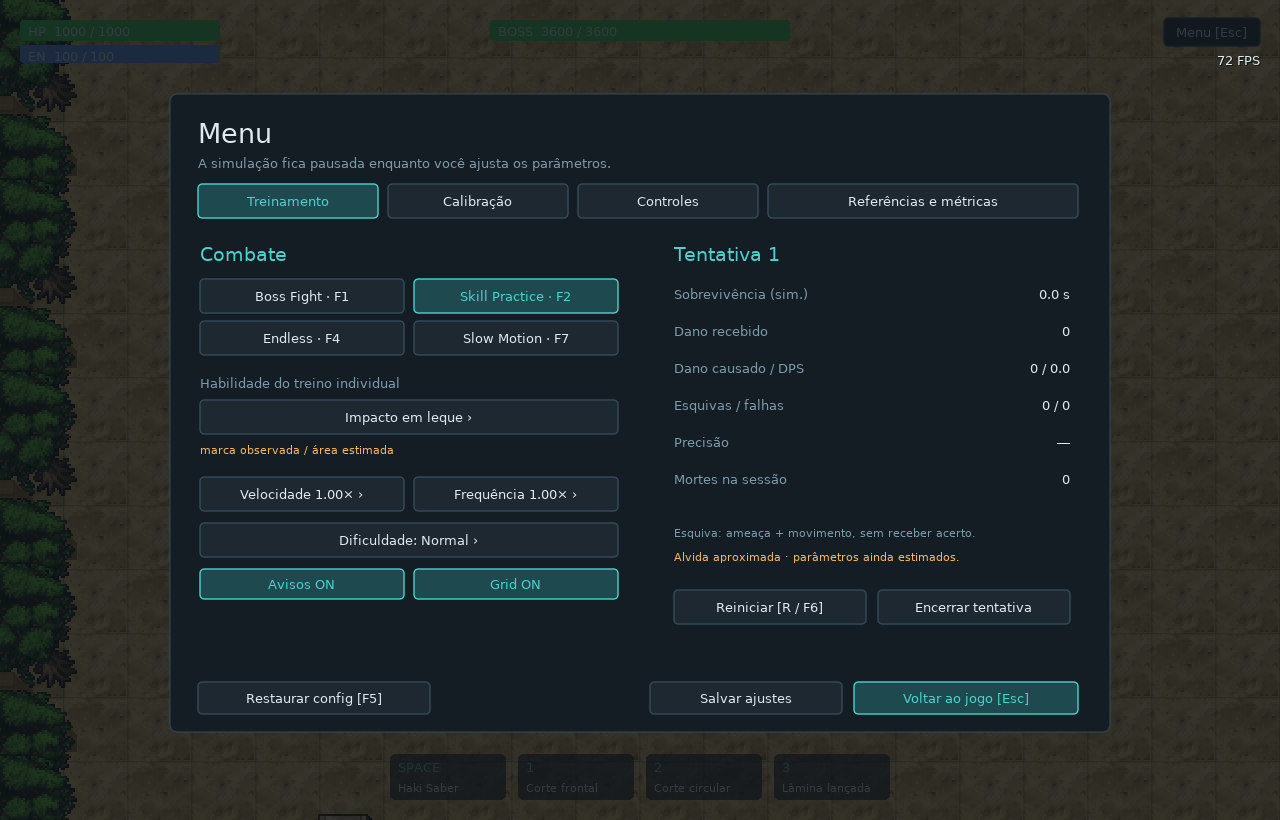
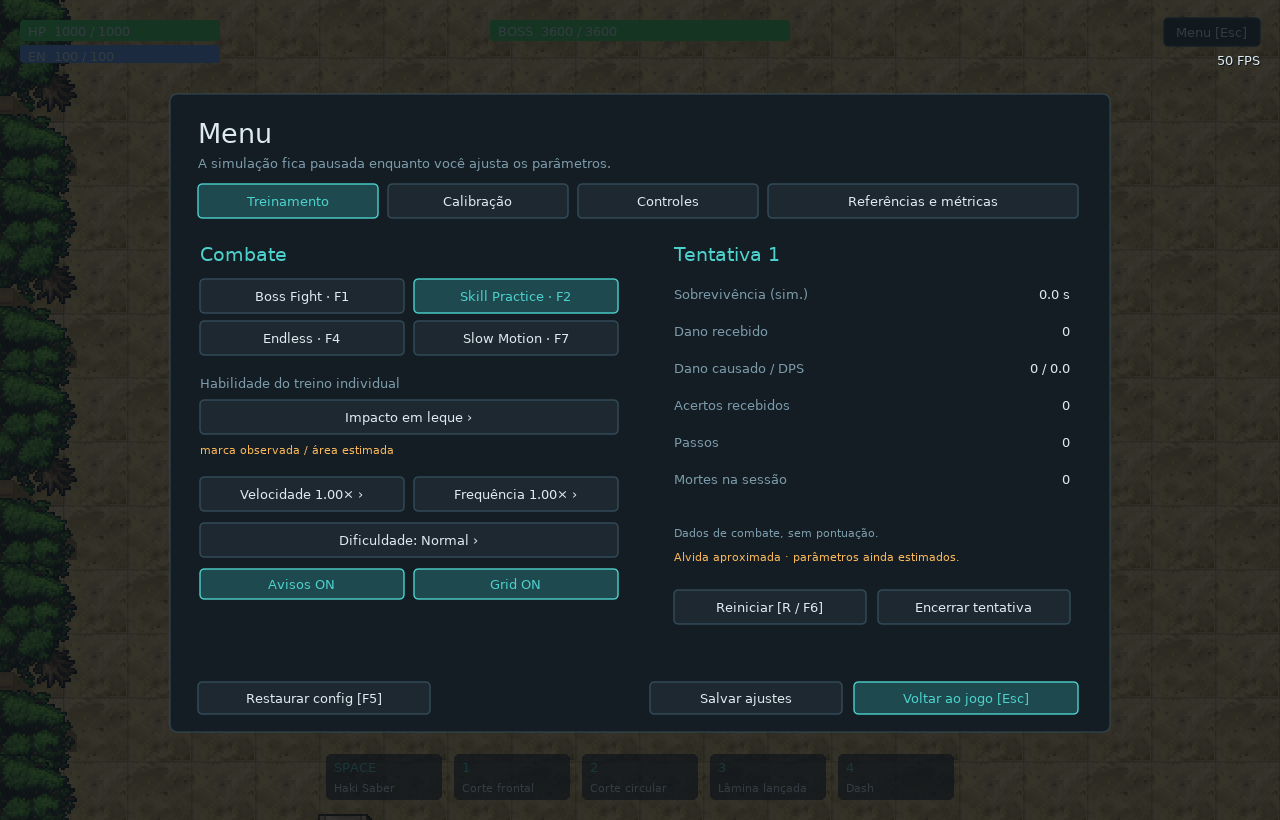
0.23

diff --git a/README.md b/README.md
@@ -1,16 +1,18 @@
 # GLA Boss Fight Simulator
 
-Versão 0.4 jogável, offline, em Lua + LÖVE 11.5. HP verde, energia azul, avisos de ataque em vermelho intenso, self-stun nas habilidades e sprites fornecidas para Shanks, boss, cenário e efeitos. Arena ocupa toda a janela, com HUD compacto, contador de FPS e menu no Esc. A movimentação mantém a calibração aproximada dos vídeos do Killer com move speed 300; essa velocidade não foi confirmada para Shanks.
+Versão 0.5 jogável, offline, em Lua + LÖVE 11.5. Shanks possui dash na tecla 4; círculos de direção e sistema de pontos foram removidos. HP verde, energia azul, avisos vermelhos, self-stun e sprites fornecidas continuam disponíveis. Arena ocupa toda a janela, com HUD compacto, FPS e menu no Esc. A movimentação mantém a calibração aproximada dos vídeos do Killer com move speed 300; essa velocidade não foi confirmada para Shanks. A meta é reproduzir o GLA com referências, mas o combate ainda contém aproximações documentadas.
 
 ![Interface do simulador](docs/preview.png)
 
-Durante a luta aparecem HP, energia, vida do boss, quatro atalhos de habilidades com cooldown e FPS. Modos, frequência, dificuldade, estatísticas, reinício e encerramento ficam na aba **Treinamento** do menu. **Esc abre e fecha o menu**, pausando a simulação enquanto estiver aberto. Tab não abre mais o menu. Calibração, remapeamento e ajuda continuam acessíveis pelas outras abas. O contador usa FPS reais de renderização, inclusive durante pausa e slow motion.
+Durante a luta aparecem HP, energia, vida do boss, cinco atalhos de habilidades com cooldown e FPS. Modos, frequência, dificuldade, dados de combate, reinício e encerramento ficam na aba **Treinamento** do menu. **Esc abre e fecha o menu**, pausando a simulação enquanto estiver aberto. Tab não abre mais o menu. Calibração, remapeamento e ajuda continuam acessíveis pelas outras abas. O contador usa FPS reais de renderização, inclusive durante pausa e slow motion. Círculos com setas de orientação foram retirados de Shanks e do boss; F3 ainda mostra hitboxes apenas para depuração.
 
 ![Menu de treinamento](docs/menu-preview.png)
 
 ![Corte frontal, self-stun e aviso vermelho](docs/skill-preview.png)
 
-Todas as habilidades do Shanks deixam o personagem parado desde o início da execução. A duração total está em `config.lua → playerSkills → selfStun`: básico **0,28 s**, corte frontal **0,45 s**, circular **0,65 s**, projétil **0,40 s**. São estimativas configuráveis, não tempos medidos no GLA. Um passo em andamento fica congelado na posição interpolada e continua após o bloqueio; não há teleporte. Durante o bloqueio, novas skills e mudanças de direção são recusadas; teclas de movimento mantidas pressionadas voltam a funcionar depois. O jogador continua vulnerável. Pausa e slow motion afetam o timer junto com a simulação; cooldown é independente.
+As quatro habilidades ofensivas do Shanks deixam o personagem parado desde o início da execução. A duração total está em `config.lua → playerSkills → selfStun`: básico **0,28 s**, corte frontal **0,45 s**, circular **0,65 s**, projétil **0,40 s**. São estimativas configuráveis, não tempos medidos no GLA. Um passo em andamento fica congelado na posição interpolada e continua após o bloqueio; não há teleporte. Durante o bloqueio, novas skills e mudanças de direção são recusadas; teclas de movimento mantidas pressionadas voltam a funcionar depois. O jogador continua vulnerável. Pausa e slow motion afetam o timer junto com a simulação; cooldown é independente.
+
+O **dash [4]** é uma aproximação pedida para treinamento: **até 3 trechos de SQM**, preparação imóvel de **0,10 s**, **0,05 s por SQM reto / 0,075 s diagonal**, recuperação imóvel de **0,12 s**, custo de **15 de energia** e cooldown de **5 s**. Configure em `playerSkills.dash`. Segue a direção atual, inclusive a definida com Ctrl, para em paredes/entidades e respeita cantos bloqueados. Se usado durante um passo, congela a preparação e conclui rapidamente o trecho atual como primeiro segmento, sem saltar de posição. Bloqueia outras skills durante o deslocamento. Não causa dano nem concede invulnerabilidade; esses comportamentos dependem de confirmação nas referências. O efeito de rastro é apenas visual.
 
 Efeitos animados de corte, giro, impacto e projétil usam PNGs da pasta fornecida. O boss usa uma sprite de espadachim, com os padrões de treino anteriores, ainda baseados nas aproximações de Alvida. Trocar a aparência não significa reproduzir as habilidades oficiais desse personagem. As marcações inimigas usam vermelho saturado no aviso e na execução; não há amarelo nesses avisos.
 
@@ -38,6 +40,7 @@ Ou abra `dist\GLA-Boss-Fight-Simulator.love` com o LÖVE. O arquivo `.love` é u
 | Corte frontal | 1 |
 | Corte circular | 2 |
 | Lâmina lançada | 3 |
+| Dash | 4 |
 | Reiniciar instantaneamente | R ou F6 |
 | Pausar / continuar | P |
 | Abrir / fechar menu e pausar enquanto aberto | Esc |
@@ -52,6 +55,8 @@ Ou abra `dist\GLA-Boss-Fight-Simulator.love` com o LÖVE. O arquivo `.love` é u
 
 Todos os controles de combate e direção são configuráveis em `config.lua` ou na página **Controles** do menu Esc. Clique numa ação e pressione uma tecla. Ctrl é reservado para girar; Esc e F1–F7 são reservadas à interface. Esc cancela a escolha de tecla quando um remapeamento está em andamento. Tab pode ser remapeado como tecla de gameplay. R e P podem ser usados por habilidades remapeadas; nesse caso, F6 reinicia e Esc permite pausar pelo menu. Teclas de ação usam os nomes do LÖVE (`space`, `kp7`, `up`, etc.); não dependem do repeat do Windows.
 
+Preferências antigas recebem o novo atalho do dash sem perder seus remapeamentos. Se a tecla 4 já estiver usada em outra ação salva, escolha uma tecla para Dash em Esc → Controles; o botão da barra continua disponível.
+
 O ataque básico procura o único boss e gira para ele; seu alcance é radial. As habilidades frontais seguem a direção definida por movimento ou Ctrl + direção e guardam direção/área no início da preparação. Ctrl durante um passo deixa o passo atual terminar e impede o próximo; não teleporta nem interrompe a interpolação. Soltar Ctrl com uma direção ainda pressionada volta a andar. Não há mira pelo mouse nesta versão. Botões da barra também executam as habilidades.
 
 ## Movimentação e calibração
@@ -61,7 +66,7 @@ O ataque básico procura o único boss e gira para ele; seu alcance é radial. A
 - Primeiro passo começa no próximo tick após receber o comando. Segurar mantém passos; liberar conclui o passo atual. Um toque curto é preservado mesmo que pressione/solte entre ticks. Há apenas uma intenção recente de direção pendente, sem fila de dezenas de passos.
 - O personagem atravessa o SQM com interpolação linear, sem aceleração. A direção pode mudar no próximo SQM. Inputs opostos cancelam o eixo correspondente.
 - Paredes, caixas e entidades bloqueiam os passos. Origem e destino ficam reservados enquanto uma entidade anda. Diagonais entre cantos bloqueados são proibidas por padrão, com opção para recalibrar.
-- A hitbox acompanha os pés interpolados; o sprite não define a área de dano. Não há dash, stamina ou invulnerabilidade automática no jogador padrão.
+- A hitbox acompanha os pés interpolados, inclusive no dash; o sprite não define a área de dano. Não há stamina ou invulnerabilidade automática no jogador padrão.
 - Latência opcional atrasa press/release e habilidades em segundos da simulação. É uma aproximação de input, não uma emulação de rede do GLA.
 
 Veja [docs/REFERENCIAS.md](docs/REFERENCIAS.md) para evidências, timestamps e limites da medição. **300 é o atributo informado para Killer**, não uma fórmula que converte automaticamente em pixels/s. O SQM base de 40 px com zoom 1,6× aparece como 64 px no layout 1280 × 820; essa escolha visual não altera o tempo dos passos.
@@ -89,11 +94,11 @@ HP, danos, defesa, recuperação e restrições de movimento não estão calibra
 
 Boss Fight termina com vitória ou morte. Skill Practice repete o padrão selecionado e recupera HP do boss quando necessário; Endless também recupera HP do boss e continua a rotação. Slow Motion inicia a luta com velocidade 0,5×; o botão alterna 1×, 0,75×, 0,5× e 0,25×. Selecionar Boss Fight, Skill Practice ou Endless restaura 1×, inclusive após reduzir manualmente a velocidade. A tentativa anterior é registrada com seu modo e velocidade anteriores. A dificuldade altera dano/preparação conforme os presets e é uma ferramenta local de treino.
 
-Esquiva bem-sucedida significa: **um padrão ameaçou a hitbox durante aviso ou execução, o jogador iniciou pelo menos um passo desde o início desse aviso, e nenhum golpe desse padrão o acertou até ele terminar**. Cada combo/rajada conta uma vez, mesmo com múltiplos acertos. Falha é um padrão que acertou. Precisão = esquivas / (esquivas + falhas). Padrões sem ameaça, posicionamento já seguro e acertos bloqueados por invulnerabilidade não aumentam a precisão. Se não houver amostras, aparece `—`.
+O sistema de pontos foi removido: não há aviso “+1”, contagem de esquivas/falhas ou porcentagem de precisão. A remoção vale para a interface, o resumo e os novos CSVs. São mantidos apenas dados objetivos de combate, sem atribuir uma nota ao jogador.
 
 Ataque básico e habilidades ofensivas do jogador possuem cooldowns e custos próprios. Defesa subtrai dano por acerto, com mínimo zero. Cada área ativa acerta uma vez por alvo/pulso; projéteis usam teste do segmento percorrido, evitando atravessar alvos ou paredes em altas velocidades. Lentidão e stun são estados reutilizáveis. Invulnerabilidade só existe quando configurada; o padrão é zero, inclusive após receber dano.
 
-Esc → Treinamento mostra dano recebido, dano causado, DPS, precisão, sobrevivência e mortes da sessão. Essas estatísticas não ocupam espaço durante a luta. Tempos de combate e DPS usam segundos da simulação; o relatório também registra tempo real ativo. Pausa/menu não contam. Frames muito longos são limitados a 0,25 s para evitar uma recuperação brusca após travar/minimizar; nesses casos o relógio não tenta alcançar o tempo de parede perdido.
+Esc → Treinamento mostra dano recebido, dano causado, DPS, acertos recebidos, passos, sobrevivência e mortes da sessão. Essas informações não ocupam espaço durante a luta. Tempos de combate e DPS usam segundos da simulação; o relatório também registra tempo real ativo. Pausa/menu não contam. Frames muito longos são limitados a 0,25 s para evitar uma recuperação brusca após travar/minimizar; nesses casos o relógio não tenta alcançar o tempo de parede perdido.
 
 Fim, reinício ou encerramento geram resumo e CSV. `attempts.csv`, `settings.lua` e `test-results.txt` ficam em:
 
@@ -107,9 +112,25 @@ São guardadas até 100 tentativas da sessão no CSV; a sessão seguinte começa
 
 ## Arquitetura
 
-`main.lua` conecta callbacks do LÖVE, carregamento de configuração e interface. `src/game.lua` coordena os ticks. `movement/input/arena/collision` cuidam dos SQMs, eventos, ocupação e geometria. `combat/skill/player/boss` implementam dano, estados, cooldowns, áreas, projéteis e IA. `training` calcula métricas. `animation/renderer/hud` desenham sem determinar resultados do combate. `data` descreve os ataques; parâmetros numéricos ficam centralizados em `config.lua`.
+`main.lua` conecta callbacks do LÖVE, carregamento de configuração e interface. `src/game.lua` coordena os ticks. `movement/dash/input/arena/collision` cuidam dos SQMs, eventos, ocupação e geometria. `combat/skill/player/boss` implementam dano, estados, cooldowns, áreas, projéteis e IA. `training` registra dados de combate sem pontuação. `animation/effects/renderer/hud` desenham sem determinar resultados do combate. `data` descreve os ataques; parâmetros numéricos ficam centralizados em `config.lua`.
 
 O protótipo original foi preservado em `docs/original-main.lua`. Os PNGs selecionados estão incluídos em `assets`, sem depender da pasta Downloads durante a execução. Shanks e boss usam três folhas 128 × 128 cada, com quatro vistas de 64 × 64; diagonais reutilizam vistas cardinais. Frames corporais específicos de ataque e morte não foram identificados: ataque combina pose e sprite de efeito; morte usa a pose esmaecida. Onze texturas de efeitos são animadas em `src/effects.lua`. Chão, caixas e vegetação usam texturas fornecidas; a disposição da arena é própria do simulador. Veja [assets/README.md](assets/README.md) para o inventário e formato do carregador. Sprite, resolução e zoom não mudam o tamanho lógico das hitboxes.
+
+## Referências necessárias para aproximar o jogo do GLA
+
+Prioridade: movimento e dash reais do Shanks, depois habilidades e comportamento de um boss escolhido. Não é preciso enviar tudo de uma vez.
+
+| Material | Como registrar | O que permite calibrar |
+| --- | --- | --- |
+| Shanks andando | 10–20 s em linha reta, diagonais, toques curtos, troca de direção e Ctrl; mostre move speed, buffs, equipamento, resolução, zoom, FPS e ping | duração dos passos, resposta ao input, escala e câmera |
+| Dash do Shanks | 5 repetições reto/diagonal; parado e andando; mirando parede, canto e inimigo; mostre tecla, energia e cooldown | direção/alvo, alcance em SQMs, preparação, recuperação, colisões, dano e possível invulnerabilidade |
+| Cada skill isolada | nome e tecla, tooltip completo, 3–5 usos; segure uma direção durante o golpe; teste alvos perto/longe e de lado | self-stun, alcance, hitboxes, custo, cooldown, acertos múltiplos e cancelamentos |
+| Boss prioritário | nome, dificuldade e 2–3 lutas completas, preferencialmente solo; trechos parado e desviando, com HP visível | sequência, escolha de alvo, mudanças de fase, velocidade, avisos e momento do dano |
+| Sprites e controles | identifique arquivos de personagem/efeito, ordem dos frames e direções quando souber; screenshot dos atalhos e da interface do GLA | animações corretas, tamanho dos personagens, aparência do mapa e controles |
+
+Prefira os arquivos de vídeo originais a 60 FPS ou mais, velocidade normal, sem cortes durante uma ação, sem câmera lenta aplicada na edição e com teclado/atalhos visíveis quando possível. Informe timestamps dos exemplos relevantes. Evite efeitos de outros jogadores nos testes isolados. Nome da skill e tooltip ajudam a distinguir a mecânica de uma coincidência visual. O número de poder exibido não basta, sozinho, para determinar dano final.
+
+Se puder enviar apenas dois materiais agora: **um vídeo do dash do Shanks** e **um vídeo de caminhada com o move speed dele visível**. As durações e regras provisórias serão substituídas conforme essas medições, sem presumir mecânicas do GLA.
 
 ## Verificação
 

diff --git a/docs/VALIDACAO.md b/docs/VALIDACAO.md
@@ -1,8 +1,12 @@
-# Verificação da entrega v0.4 — 13/10/2026
+# Verificação da entrega v0.5 — 13/10/2026
 
 - Runtime real: LÖVE 11.5 instalado em `C:\Program Files\LOVE` e LuaJIT de sua `lua51.dll`.
 - Compilação dos módulos Lua verificada antes da execução dos testes.
-- **48 testes passaram**, incluindo 35 testes de simulação e 13 de interface/recursos gráficos.
+- **54 testes passaram**, incluindo 40 testes de simulação e 14 de interface/recursos gráficos.
+- Dash: oito direções, custo/cooldown, preparação/recuperação, retomada de passo parcial sem teleporte, vulnerabilidade, paredes/entidades/cantos, pausa/slow motion/reset e equivalência de FPS verificados.
+- Preferências antigas recebem o novo controle sem sobrescrever teclas remapeadas; a barra possui cinco habilidades e o menu comporta Dash.
+- Pontuação removida: ataques evitados não geram bônus nem campos de precisão/esquivas nos resultados. Dano e acertos continuam registrados.
+- Círculos de orientação removidos das sprites e placeholders; capturas atualizadas inspecionadas.
 - Self-stun das quatro habilidades verificado durante passos: posição e fase congeladas, bloqueio de novas skills, retomada, vulnerabilidade, reset, pausa, slow motion e equivalência a 30/60/144 FPS.
 - Pixels renderizados conferidos: ambas as barras de HP verdes, energia azul e aviso de ataque vermelho puro.
 - Sprite do boss e sequências de corte, giro, impacto e projétil carregadas e desenhadas no runtime real. Captura `skill-preview.png` inspecionada.
@@ -19,7 +23,7 @@
 - A janela do jogo foi aberta pelo runtime e a captura `preview.png` foi inspecionada.
 - Telas de calibração, controles, ajuda, pausa, resumo e viewport escalado exercitadas no LÖVE real.
 - O arquivo `.love` empacotado passou nos mesmos testes.
-- ZIP portátil extraído, EXE com as DLLs incluídas executado: relatório com **48 testes passaram**. A gravação do relatório foi confirmada no diretório próprio do EXE.
+- ZIP portátil extraído, EXE com as DLLs incluídas executado: relatório com **54 testes passaram**. A gravação do relatório foi confirmada no diretório próprio do EXE.
 - ZIPs e `.love` verificados com teste de integridade; hashes e tamanhos em `dist/manifest.json`.
 - Vídeos foram analisados visualmente por quadros e o deslocamento do cenário medido por fluxo óptico. Isso fornece estimativas de movimentação, não comprova hitboxes internas, cooldowns nem rotação oficial.
 

diff --git a/assets/README.md b/assets/README.md
@@ -16,7 +16,7 @@ A versão 0.4 usa 22 PNGs da pasta `Grand Line Adventures/Frame_098906/LanSPR` i
 | `effects/Image_2D_3187_4173.png`, `3190_4182` | anel giratório: duas texturas 256 × 256 |
 | `effects/Image_2D_1090_12279.png`, `1127_12285`, `1130_12291`, `1132_12296` | impacto: quatro texturas 256 × 256 |
 
-As folhas dos personagens medem 128 × 128. O manifesto recorta quatro regiões 64 × 64 por folha e inverte o eixo Y de cada frame ao desenhar. São 12 frames por personagem, com sequência base → pose 2 → base → pose 3 sincronizada ao passo. Direções foram inferidas visualmente e podem ser ajustadas nos manifestos. Diagonais usam vistas cardinais; o marcador sob os pés mostra a direção lógica exata. Ausentes sequências corporais específicas de ataque e morte, usa-se idle, com sprite de efeito ou esmaecimento. Nenhuma animação completa de habilidade oficial foi afirmada como reconstruída.
+As folhas dos personagens medem 128 × 128. O manifesto recorta quatro regiões 64 × 64 por folha e inverte o eixo Y de cada frame ao desenhar. São 12 frames por personagem, com sequência base → pose 2 → base → pose 3 sincronizada ao passo. Direções foram inferidas visualmente e podem ser ajustadas nos manifestos. Diagonais usam vistas cardinais; os círculos de orientação foram removidos. Ausentes sequências corporais específicas de ataque e morte, usa-se idle, com sprite de efeito ou esmaecimento. O dash usa a caminhada acelerada e um rastro de corte; não afirma reproduzir a animação oficial. Nenhuma animação completa de habilidade oficial foi afirmada como reconstruída.
 
 `src/effects.lua` seleciona os quadros pelo progresso em segundos da simulação, recorta margens transparentes com quads e corrige o eixo Y ao desenhar. Escala, rotação e cor são ajustes visuais locais. Os mesmos cortes são usados no projétil, que mantém colisão por segmento. Impactos aparecem nos acertos e nas colisões com paredes; os padrões de área do boss mostram impactos sobre suas células. Esses sprites não definem hitboxes.
 
